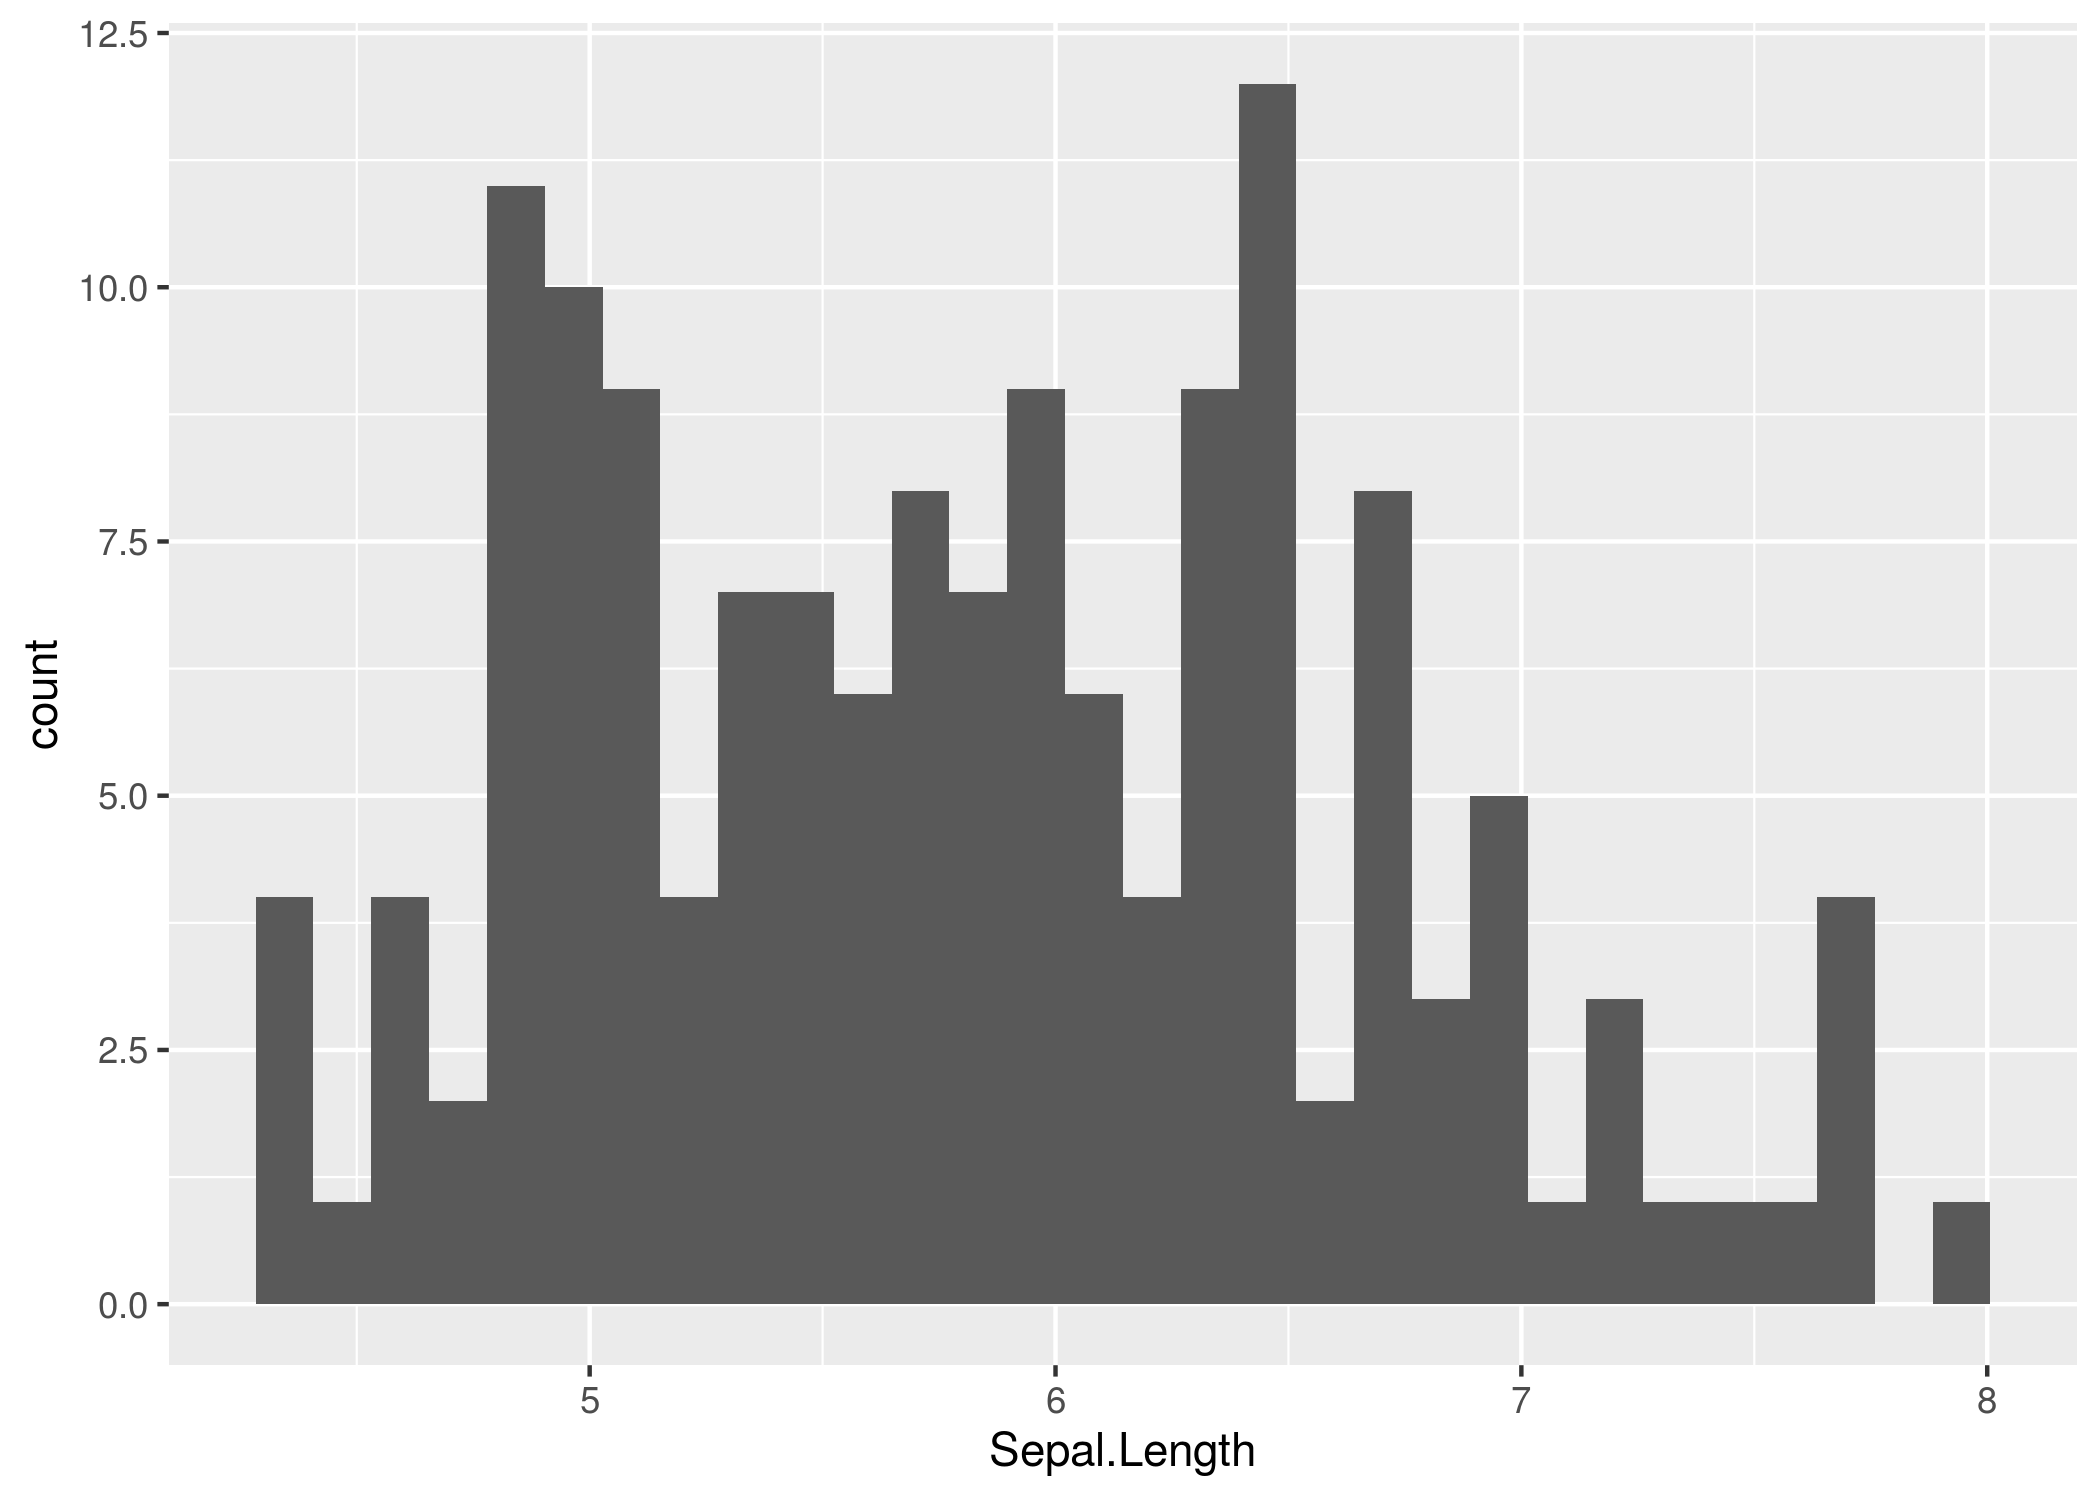
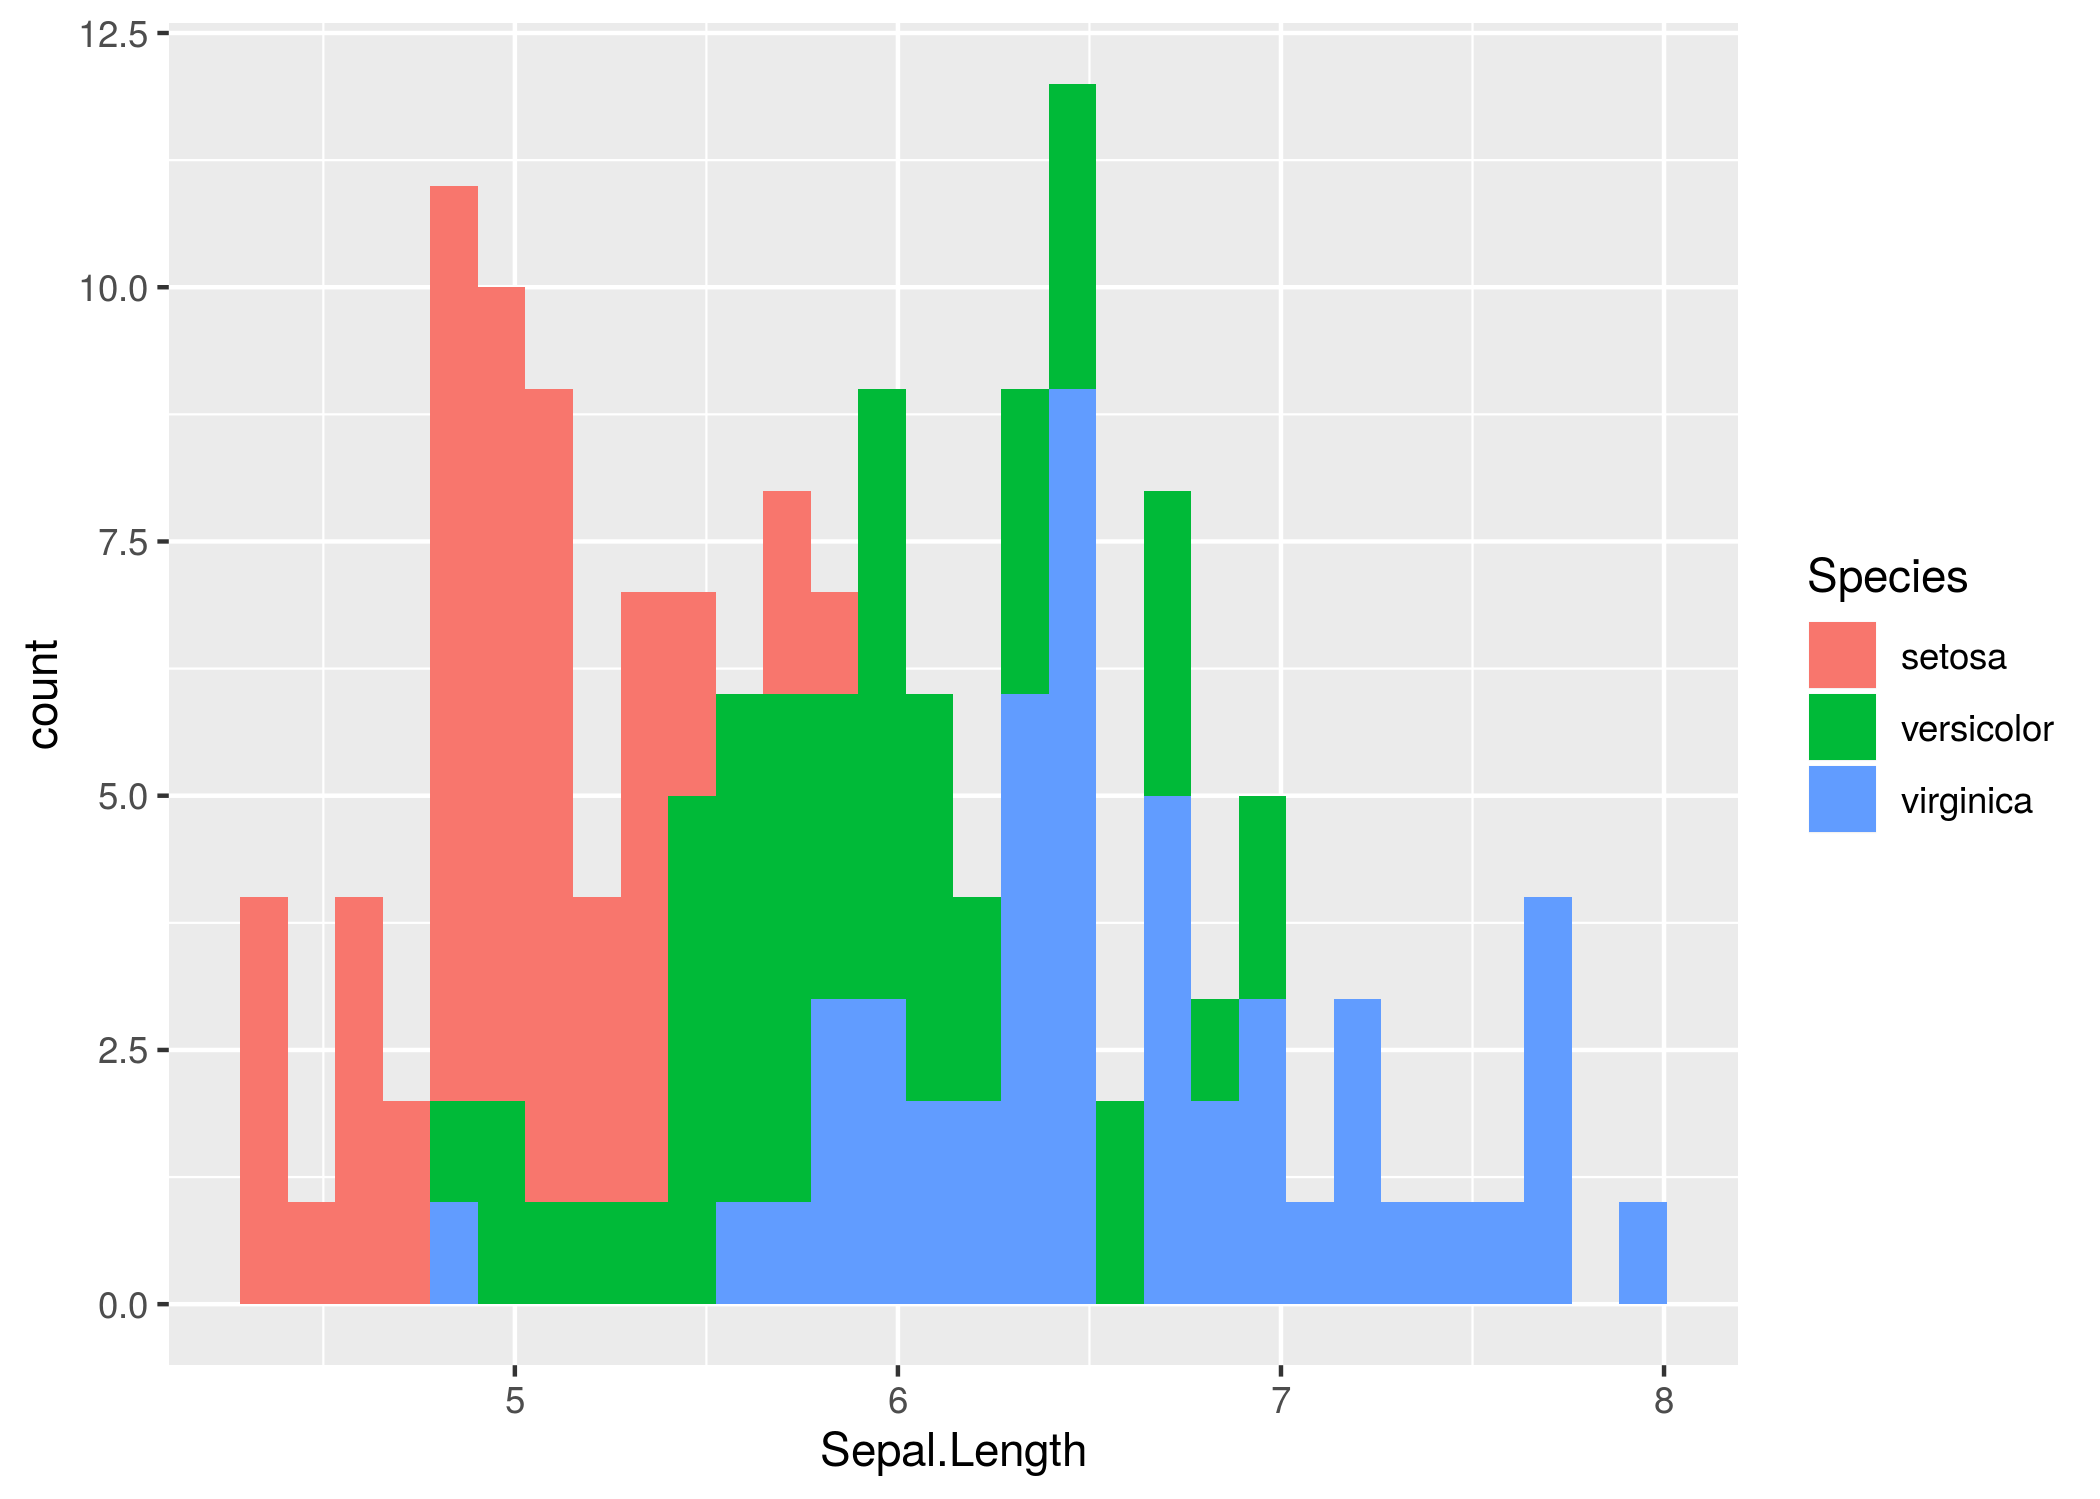
Modified plot to have Species fill

diff --git a/Practice_plot_github.html b/Practice_plot_github.html
@@ -369,7 +369,7 @@ summary {
 </div>
 
 
-<pre class="r"><code>ggplot(iris, aes(x=Sepal.Length))+
+<pre class="r"><code>ggplot(iris, aes(x=Sepal.Length, fill= Species))+
   geom_histogram()+
   labs()-&gt;irisplot
 ggsave(&quot;practice_plot.png&quot;, irisplot)</code></pre>
